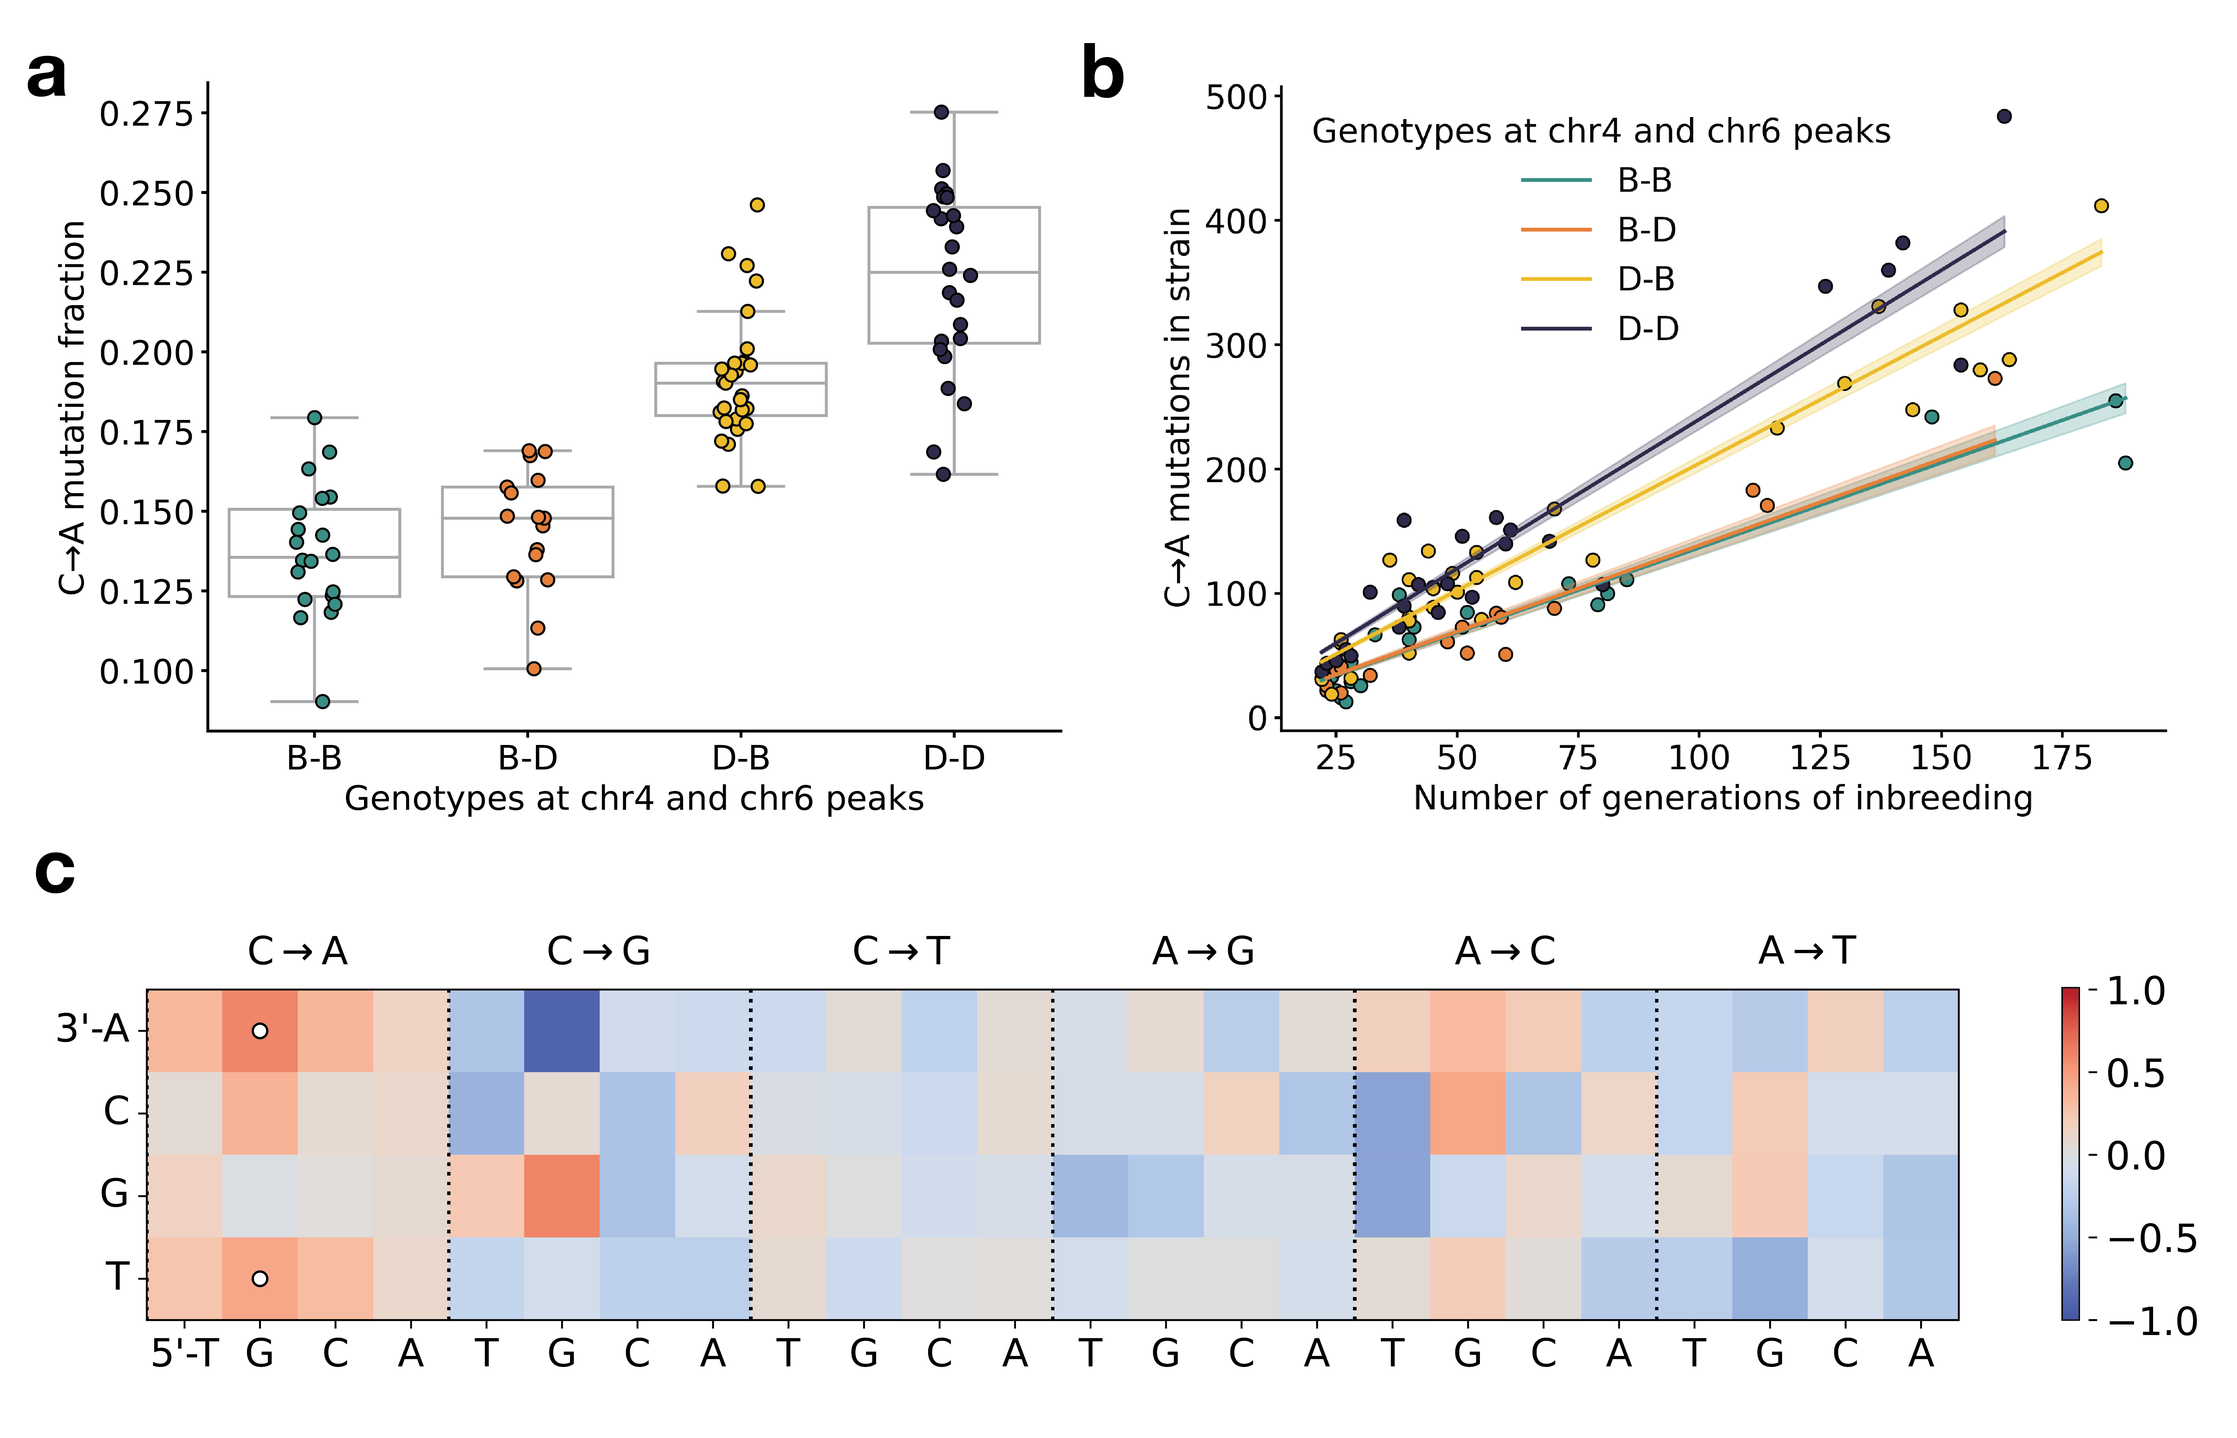
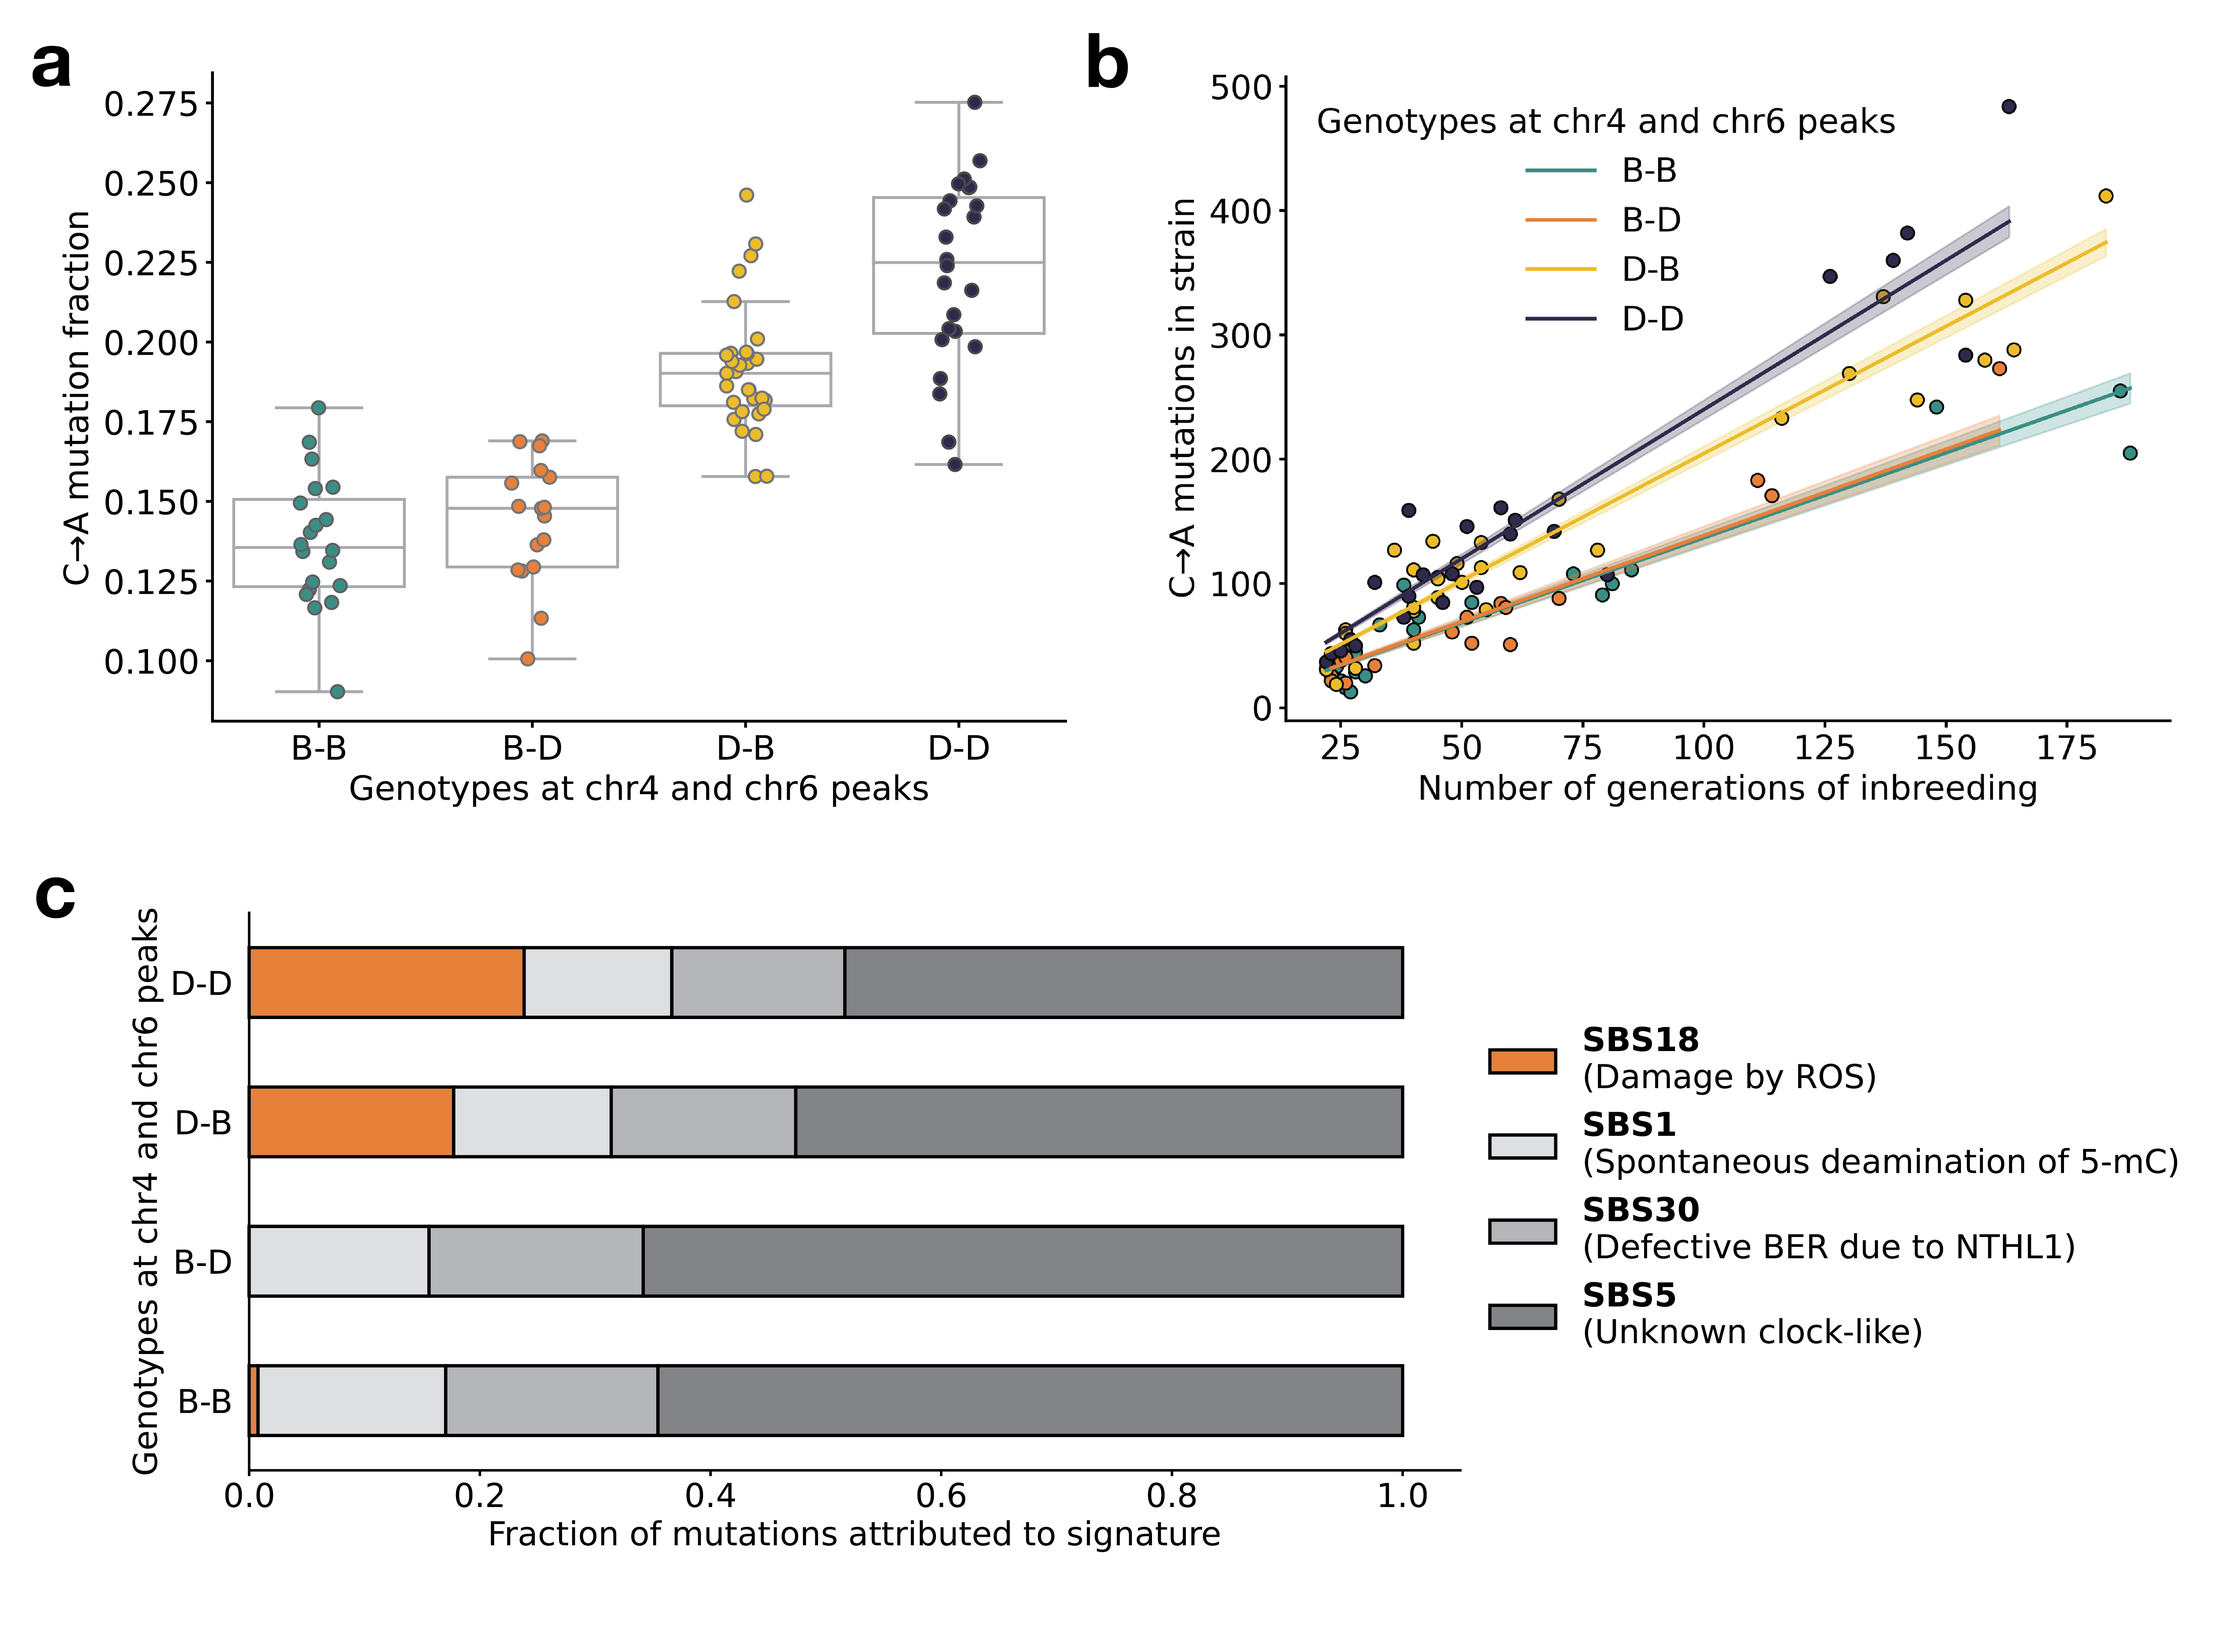
Update COSMIC figure, add legends and SigProfilerExtractor methods.

diff --git a/content/03.results.md b/content/03.results.md
@@ -78,8 +78,13 @@ None of these genes has a previously annotated role in DNA binding, repair or re
 ### Evidence of epistasis between germline mutator alleles
 
 Next, we more precisely characterized the effects of the chromosome 4 and 6 mutator alleles on mutation spectra in the BXDs. 
-We observed that C>A germline mutation fractions in BXDs with *D* alleles at both mutator loci were higher than in BXDs with *D* alleles at either locus alone; GCT>GAT and GCA>GAA mutations were specifically enriched in the former (Figure {@fig:spectra-comparison} and {@fig:spectra-comparison-all}). 
+We observed that C>A germline mutation fractions in BXDs with *D* alleles at both mutator loci were higher than in BXDs with *D* alleles at either locus alone (Figure {@fig:spectra-comparison} and {@fig:spectra-comparison-all}). 
 Compared to BXDs with *B* alleles at the chromosome 6 mutator locus, those with *D* alleles did not exhibit higher C>A mutation fractions, indicating that the effects of the chromosome 6 mutator locus depend on the presence of a *D* allele at the chromosome 4 locus (Figure {@fig:spectra-comparison}). 
+We also used SigProfilerExtractor [@PMID:36388765] to assign the germline mutations in each BXD to a single-base substitution (SBS) mutation signature from the COSMIC catalog [@PMID:30371878].
+Mutation signatures often reflect specific exogenous or endogenous sources of DNA damage, and the fraction of a given sample's mutations attributable to a particular SBS signature can suggest a genetic or environmental etiology.
+The SBS1, SBS5, and SBS30 mutation signatures were active in all BXDs, regardless of genotypes at the chromosome 4 and 6 mutator loci (Figure @fig:spectra-comparison).
+However, the SBS18 signature, which is dominated by C>A mutations and likely reflects unrepaired DNA damage from reactive oxygen species, was only active in mice with *D* alleles at the chromosome 4 locus; the highest SBS18 activity was observed in mice with *D* alleles at both mutator loci (Figure @fig:spectra-comparison).
+SBS18 activity was absent in mice with *D* alleles at the chromosome 6 mutator locus alone (Figure @fig:spectra-comparison), further demonstrating that *D* alleles at this locus are not sufficient to cause a mutator phenotype.
 To more formally test for epistasis, we fit a linear model predicting counts of C>A mutations in each strain as a function of genotypes at `rs52263933` and `rs31001331` (the peak markers at the two mutator loci) (Materials and Methods). 
 A model that included an interaction term between genotypes at the two markers fit the data significantly better than a model including only additive effects (p = 9.8e-4).
 
@@ -88,8 +93,7 @@ A model that included an interaction term between genotypes at the two markers f
 **a)** C>A *de novo* germline mutation fractions in BXDs with either *D* or *B* genotypes at markers `rs52263933` (chr4 peak) and `rs31001331` (chr6 peak). 
 **b)** Counts of C>A *de novo* germline mutations in each BXD strain plotted against the number of generations for which it was inbred. 
 Lines represent predicted C>A counts in each haplotype group from a Poisson regression (identity link), and shading around each line represents the 95% confidence interval for the predicted values.
-**c)** $\log_2$-transformed ratios of 3-mer mutation fractions in BXDs with *D* genotypes at `rs52263933` and *D* vs. *B* genotypes at `rs31001331`.
-Comparisons for which a $\chi_2$ test of independence returned p < $\frac{0.05}{96}$ (Bonferonni corrected p < 0.05) are annotated with a white dot.
+**c)** Germline mutations in each BXD were assigned to COSMIC SBS mutation signatures using SigProfilerExtractor. After grouping BXDs by their genotypes at `rs52263933` and `rs31001331`, we calculated the fraction of mutations in each group that were assigned to each signature. The proposed etiologies of each mutation signature are: SBS1 (spontaneous deamination of methylated cytosine nucleotides) SBS5 (unknown, clock-like signature), SBS18 (damage by reactive oxygen species, possibly loss-of-function mutations in MUTYH), and SBS30 (defective base-excision repair due to NTHL1 mutations).
 ](images/fig-spectra-comparison.png){#fig:spectra-comparison width=8.5in} 
 
 To explore the effects of the two mutator loci in other inbred laboratory mice, we also compared the germline mutation spectra of Sanger Mouse Genomes Project (MGP) strains [@PMID:21921910]. 

diff --git a/content/04.discussion.md b/content/04.discussion.md
@@ -55,11 +55,11 @@ Although we did not find compelling evidence that structural variants were respo
 The inter-haplotype distance (IHD) method has a number of advantages over traditional quantitative trait locus (QTL) mapping for detecting mutator alleles that affect elements of the $k$-mer mutation spectrum.
 Using simulated data, we found that both IHD and QTL mapping had similar power to detect mutators that augment the rates of specific 1-mer and 3-mer mutation types (Figure @fig:ihd_vs_qtl_power).
 Nonetheless, only IHD was able to discover the mutator locus on chromosome 6 in the BXDs, demonstrating that it outperforms QTL mapping in certain experimental systems, and can reveal previously undiscovered signals of mutator alleles.
-One benefit of the IHD approach is that it obviates the need to perform separate association tests for for every possible $k$-mer mutation type.
+One benefit of the IHD approach is that it obviates the need to perform separate association tests for for every possible $k$-mer mutation type, and therefore the need to adjust for multiple tests.
 Since IHD compares the complete mutation spectrum between haplotypes that carry either allele at a site, it would also be well-powered to detect a mutator allele that exerted a coordinated effect on multiple $k$-mer mutation types (e.g., increased the rates of both C>T and C>A mutations).
 
 However, the IHD method suffers a handful of drawbacks when compared to QTL mapping.
-Namely, popular QTL mapping methods (such as R/qtl2 [@PMID:30591514]) use linear models to discover associations between genotypes and phenotypes, enabling the inclusion of additive and interactive covariates, as well as kinship matrices, in QTL scans.
+Popular QTL mapping methods (such as R/qtl2 [@PMID:30591514]) use linear models to test associations between genotypes and phenotypes, enabling the inclusion of additive and interactive covariates, as well as kinship matrices, in QTL scans.
 Although we have included simple methods to account for inter-sample relatedness in the IHD approach, they are not as robust or flexible as similar methods in QTL mapping software.
 Additionally, the IHD method assumes that mutator alleles affect a subset of $k$-mer mutation types, rather than all mutation types equally.
 If a mutator allele increased the rates of all mutation types equally on haplotypes that carried it, IHD would be unable to detect it.

diff --git a/content/05.methods.md b/content/05.methods.md
@@ -169,6 +169,26 @@ To predict the functional impacts of both single-nucleotide variants and indels 
 
 and used `cyvcf2` [@PMID:28165109] to iterate over the annotated VCF file in order to identify nonsynonymous fixed differences between the parental C57BL/6J and DBA/2J strains.
 
+### Extracting mutation signatures 
+
+We used SigProfilerExtractor (v.1.1.21) to extract mutation signatures from the BXD mutation data. After converting the BXD mutation data to the "matrix" input format expected by SigProfilerExtractor, we ran the `sigProfilerExtractor` method as follows:
+
+```python
+
+# install the mm10 mouse reference data
+genInstall.install('mm10')
+
+# run mutation signature extraction
+sig.sigProfilerExtractor(
+    'matrix',
+    /path/to/output/directory,
+    /path/to/input/mutations,
+    maximum_signatures=5,
+    nmf_replicates=50,
+    opportunity_genome="mm10",
+)
+```
+
 ### Comparing mutation spectra between Mouse Genomes Project strains
 
 We downloaded mutation data from a previously published analysis [@PMID:30753674] (Supplementary File 1, Excel Table S3) that identified strain-private mutations in 29 strains that were originally whole-genome sequenced as part of the Sanger Mouse Genomes (MGP) project [@PMID:21921910]. 
